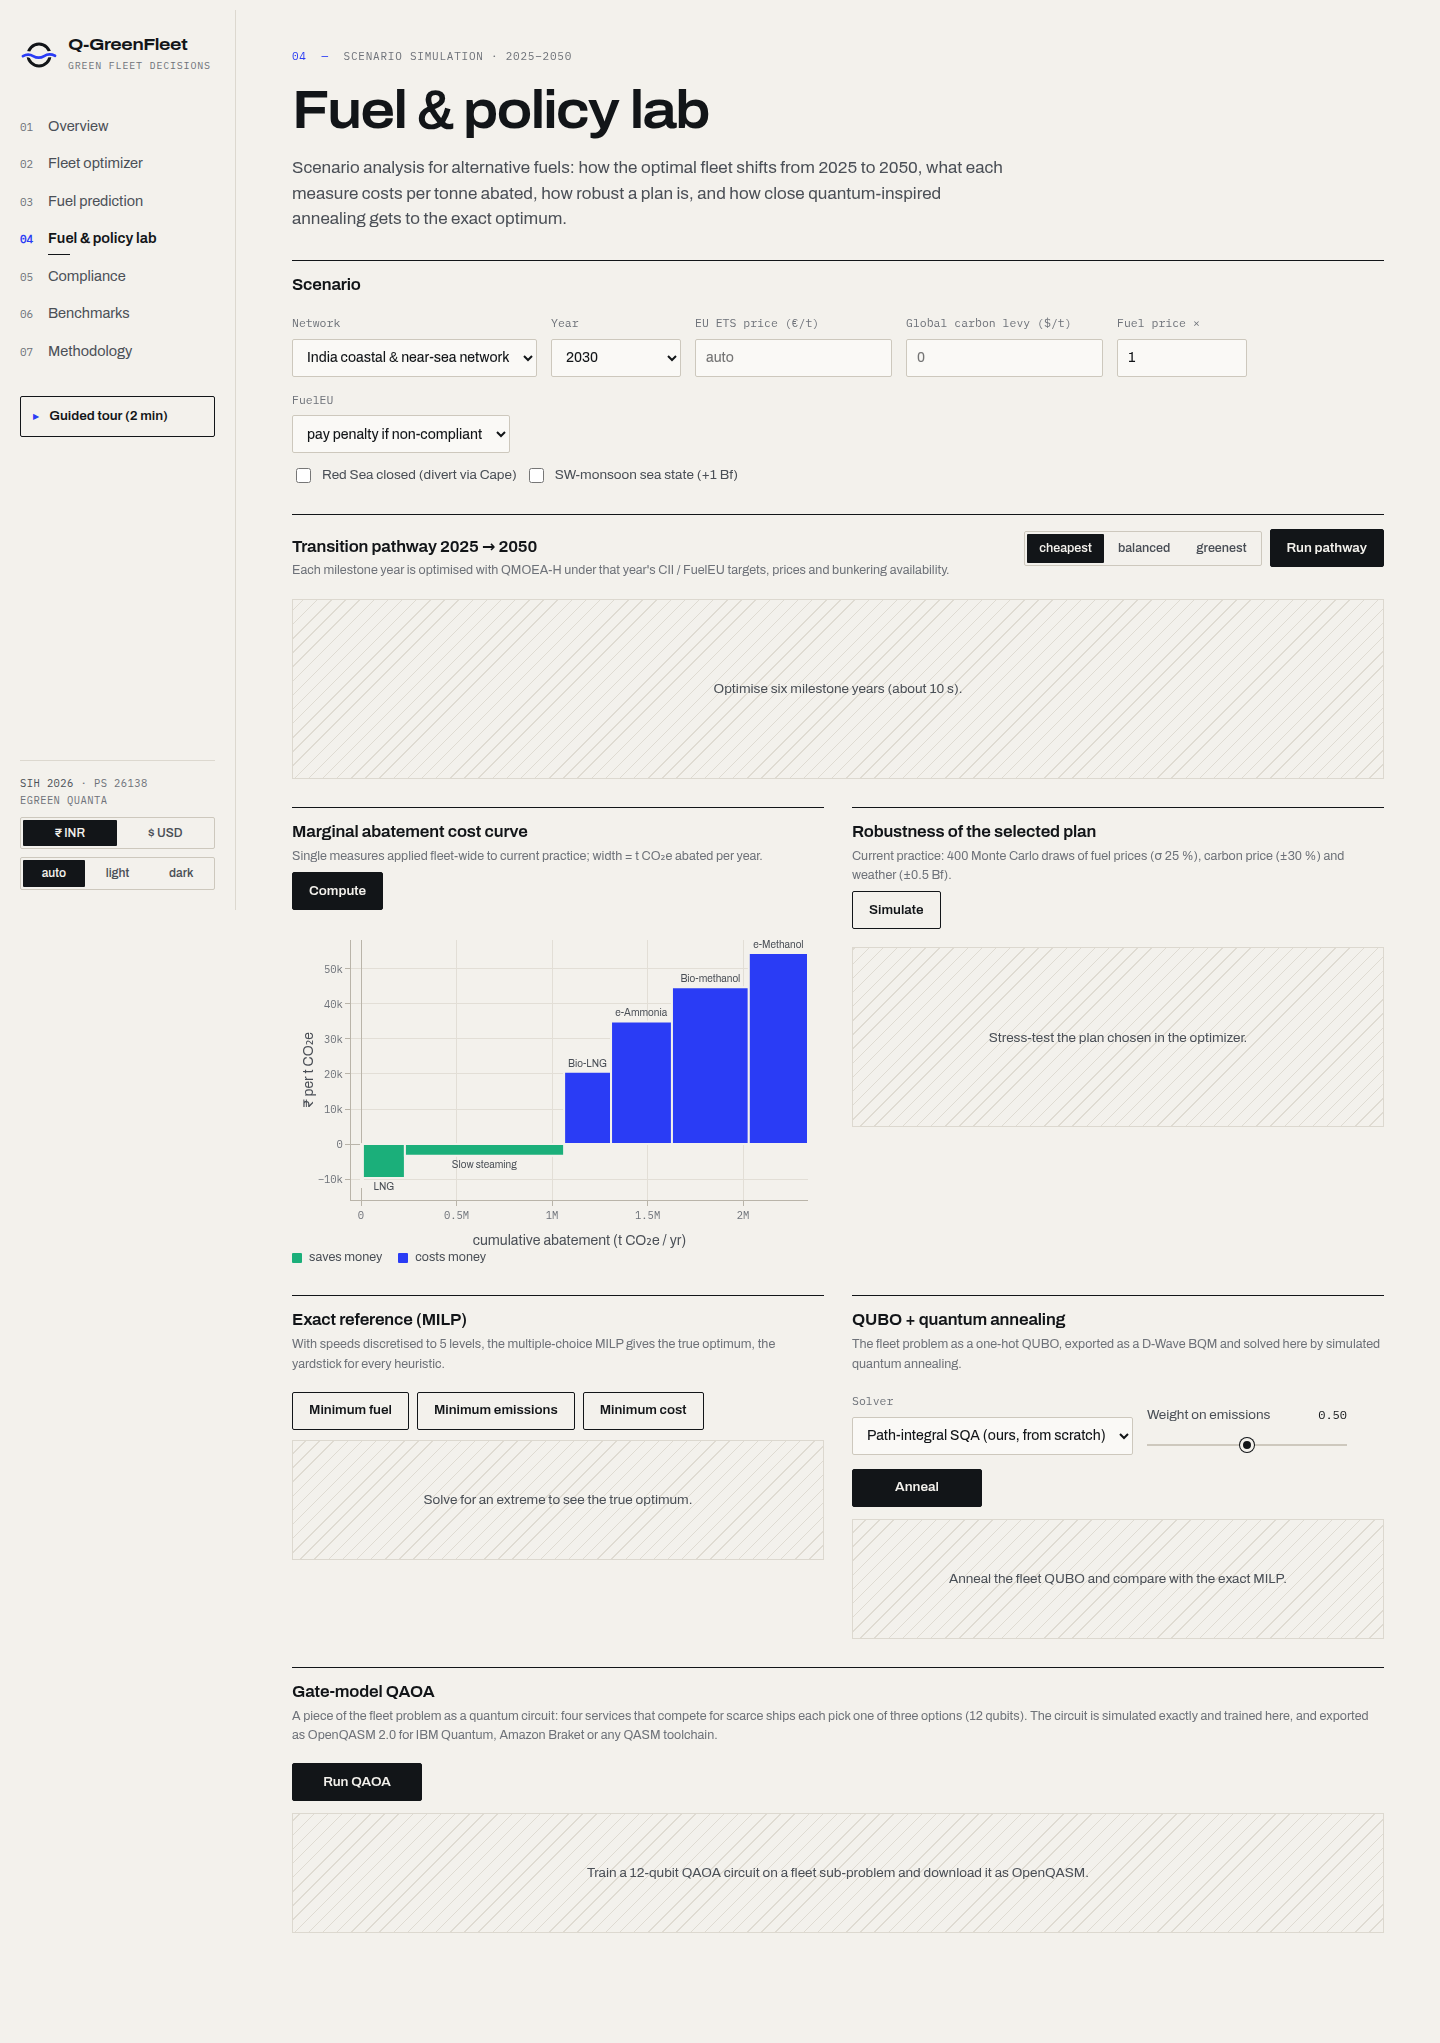
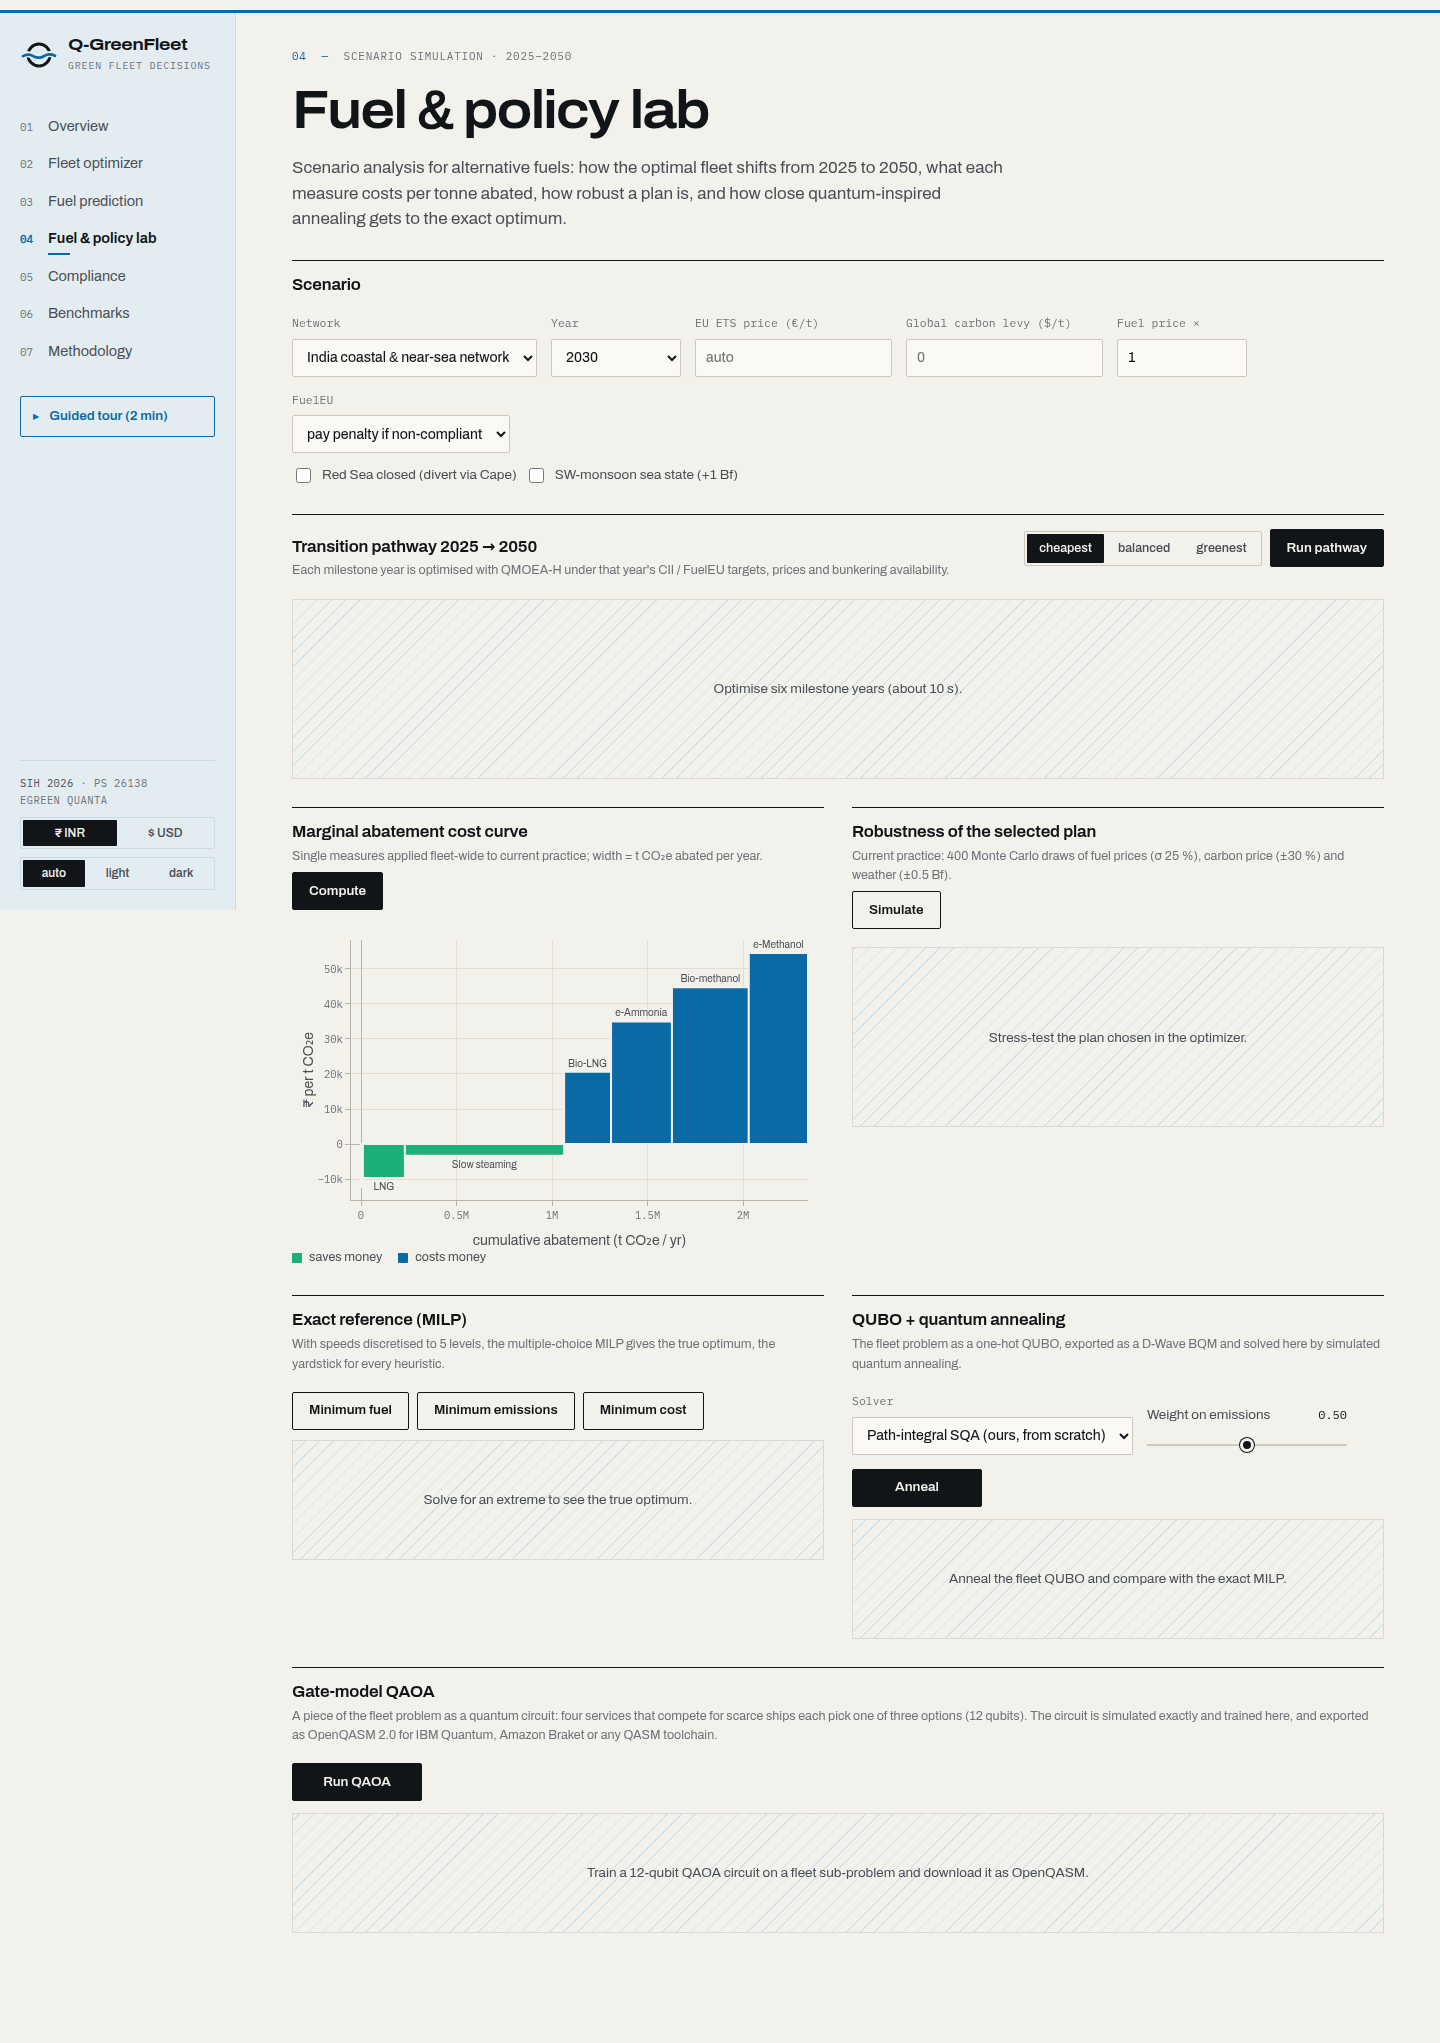
Light theme: a touch of ocean blue
- Accent changes from ultramarine to a deep ocean blue (#0a6aa6, 5.1:1 on
  the paper): links, section numbers, active-page marker, logo wave,
  first chart series and the fuel colour scale.
- Pale-sea sidebar, the same family as the map's water, with an
  ocean-blue guided-tour button.
- Thin ocean-blue rule across the top of the window and on the headline
  figure; bluer sea on the map; empty-state hatching in pale ocean.
- Chart palette and sequential ramp re-validated on the paper surface.
- Dark theme unchanged. Favicon and decision report follow the new blue.

Claude-Session: https://claude.ai/code/session_01LireC5r7ebd4Q4MviXgWuL

Changed region(s): [[0.375, 0.4626, 0.5625, 0.5859], [0.0312, 0.185, 0.0938, 0.2159]]

diff --git a/frontend/src/styles.css b/frontend/src/styles.css
@@ -1,5 +1,6 @@
 /* Q-GreenFleet design system, "Chart Room".
-   Editorial and instrument-like: warm chart paper, black ink, one ultramarine accent. Sections are separated by ruled
+   Editorial and instrument-like: warm chart paper, black ink, one ocean-blue accent (light) / periwinkle (dark);
+   in the light theme the sidebar is pale sea, like the water on a chart. Sections are separated by ruled
    lines instead of boxes; Archivo (expanded for headlines, condensed for figures) with IBM Plex Mono for labels.
    The map uses nautical-chart colours (buff land, pale sea). Chart series = validated reference palette with
    slot 1 set to the accent, re-validated against #f3f1ec (light) and #101214 (dark). */
@@ -27,20 +28,25 @@
   --border: #dcd8cf;
   --grid: #e2ded6;
   --axis: #b9b4a9;
-  --hatch: #dfdbd2;
-  --accent: #2a3cf5;
-  --accent-hover: #1a2ad6;
-  --accent-soft: rgba(42, 60, 245, 0.08);
+  --hatch: #d3e3ea;
+  --accent: #0a6aa6;
+  --accent-hover: #08578a;
+  --accent-soft: rgba(10, 106, 166, 0.08);
   --accent-ink: #ffffff;
-  --accent-inv: #9aa3ff; /* accent on an ink background */
+  --accent-inv: #7cc4ec; /* accent on an ink background */
   --brand-wave: var(--accent);
-  --sea: #dbe5e8;
+  --strip: var(--accent); /* ocean-blue rule across the top of the window (light theme only) */
+  --hero-rule: var(--accent);
+  --sidebar-bg: #e3edf1; /* pale sea, the same family as the map's water */
+  --sidebar-line: #c9dbe3;
+  --tour-ink: var(--accent);
+  --sea: #d0e3eb;
   --land: #ece4cf;
   --coast: #9f9886;
-  --series-1: #2a3cf5; --series-2: #eb6834; --series-3: #1baf7a; --series-4: #eda100;
+  --series-1: #0a6aa6; --series-2: #eb6834; --series-3: #1baf7a; --series-4: #eda100;
   --series-5: #e87ba4; --series-6: #008300; --series-7: #4a3aa7; --series-8: #e34948;
   --neutral-series: #8f8d86;
-  --seq-100: #959ef9; --seq-300: #5f6cf6; --seq-500: #2a3cf5; --seq-700: #121a7a;
+  --seq-100: #78add2; --seq-300: #3a89bf; --seq-500: #0a6aa6; --seq-700: #07385a;
   --good: #0ca30c; --warning: #fab219; --serious: #ec835a; --critical: #d03b3b;
   --good-text: #17692d; --bad-text: #b3261e;
   --font: "QGF Amp", "Archivo Variable", "Archivo", system-ui, -apple-system, "Segoe UI", sans-serif;
@@ -53,6 +59,7 @@
     --text-primary: #ebe7df; --text-secondary: #aaa69d; --text-muted: #85827a;
     --ink: #ebe7df; --rule: #8d8a83; --line: #383c40; --border: #2a2e32; --grid: #1f2326; --axis: #3c4044; --hatch: #1d2023;
     --accent: #7c86ff; --accent-hover: #9aa2ff; --accent-soft: rgba(124, 134, 255, 0.12); --accent-ink: #0b0d10; --accent-inv: #2a3cf5;
+    --strip: transparent; --hero-rule: var(--ink); --sidebar-bg: var(--page); --sidebar-line: var(--border); --tour-ink: var(--ink);
     --sea: #0c1518; --land: #1c1f1d; --coast: #3e433f;
     --series-1: #6b78ff; --series-2: #d95926; --series-3: #199e70; --series-4: #c98500;
     --series-5: #d55181; --series-6: #008300; --series-7: #9085e9; --series-8: #e66767;
@@ -67,6 +74,7 @@
   --text-primary: #ebe7df; --text-secondary: #aaa69d; --text-muted: #85827a;
   --ink: #ebe7df; --rule: #8d8a83; --line: #383c40; --border: #2a2e32; --grid: #1f2326; --axis: #3c4044; --hatch: #1d2023;
   --accent: #7c86ff; --accent-hover: #9aa2ff; --accent-soft: rgba(124, 134, 255, 0.12); --accent-ink: #0b0d10; --accent-inv: #2a3cf5;
+    --strip: transparent; --hero-rule: var(--ink); --sidebar-bg: var(--page); --sidebar-line: var(--border); --tour-ink: var(--ink);
   --sea: #0c1518; --land: #1c1f1d; --coast: #3e433f;
   --series-1: #6b78ff; --series-2: #d95926; --series-3: #199e70; --series-4: #c98500;
   --series-5: #d55181; --series-6: #008300; --series-7: #9085e9; --series-8: #e66767;
@@ -82,6 +90,7 @@ body {
   -webkit-font-smoothing: antialiased; text-rendering: optimizeLegibility; font-feature-settings: "ss01" 0;
 }
 ::selection { background: var(--accent); color: var(--accent-ink); }
+body::before { content: ""; position: fixed; inset: 0 0 auto; height: 3px; background: var(--strip); z-index: 1500; pointer-events: none; }
 a { color: var(--accent); text-underline-offset: 3px; text-decoration-thickness: 1px; }
 :focus-visible { outline: 2px solid var(--accent); outline-offset: 2px; }
 h1 {
@@ -104,8 +113,9 @@ p { margin: 0 0 8px; }
 .app { display: grid; grid-template-columns: 236px minmax(0, 1fr); min-height: 100%; }
 .sidebar {
   position: sticky; top: 0; height: 100vh; display: flex; flex-direction: column; gap: 4px; padding: 26px 20px 20px;
-  border-right: 1px solid var(--border); background: var(--page);
+  border-right: 1px solid var(--sidebar-line); background: var(--sidebar-bg);
 }
+.sidebar .segmented { border-color: var(--sidebar-line); }
 .brand { display: flex; gap: 10px; align-items: center; color: var(--ink); padding-bottom: 30px; }
 .brand-name { font-weight: 680; font-stretch: 116%; font-size: 16.5px; line-height: 1.1; letter-spacing: -0.025em; }
 .brand-sub { font-family: var(--font-mono); font-size: 10px; letter-spacing: 0.08em; text-transform: uppercase; color: var(--text-muted); margin-top: 4px; }
@@ -121,15 +131,16 @@ p { margin: 0 0 8px; }
 .nav a:hover { color: var(--ink); }
 .nav a.active { color: var(--ink); font-weight: 620; }
 .nav a.active::before { color: var(--accent); }
-.nav a.active::after { content: ""; position: absolute; left: 28px; bottom: 2px; width: 22px; height: 1px; background: var(--ink); }
+.nav a.active::after { content: ""; position: absolute; left: 28px; bottom: 2px; width: 22px; height: 2px; background: var(--accent); }
 .tour-link {
   margin: 22px 0 0; display: flex; align-items: center; gap: 10px; width: 100%; padding: 9px 12px; cursor: pointer;
-  font: inherit; font-size: 13.5px; font-weight: 600; color: var(--ink); background: transparent;
-  border: 1px solid var(--ink); border-radius: 2px; transition: background 0.12s ease, color 0.12s ease;
+  font: inherit; font-size: 13.5px; font-weight: 600; color: var(--tour-ink); background: transparent;
+  border: 1px solid var(--tour-ink); border-radius: 2px; transition: background 0.12s ease, color 0.12s ease;
 }
 .tour-link::before { content: "▶"; font-size: 8px; color: var(--accent); }
-.tour-link:hover { background: var(--ink); color: var(--page); }
-.sidebar-foot { margin-top: auto; padding-top: 14px; border-top: 1px solid var(--border); display: grid; gap: 8px; }
+.tour-link:hover { background: var(--tour-ink); color: var(--page); }
+.tour-link:hover::before { color: inherit; }
+.sidebar-foot { margin-top: auto; padding-top: 14px; border-top: 1px solid var(--sidebar-line); display: grid; gap: 8px; }
 .foot-credit { font-family: var(--font-mono); font-size: 10.5px; line-height: 1.6; letter-spacing: 0.04em; color: var(--text-muted); text-transform: uppercase; }
 .foot-credit b { color: var(--text-secondary); font-weight: 400; }
 
@@ -166,7 +177,7 @@ p { margin: 0 0 8px; }
 .card-head > .muted.small, .card-head > span.small { font-family: var(--font-mono); font-size: 11px; letter-spacing: 0.04em; }
 
 /* headline figure */
-.hero-card { display: flex; flex-direction: column; justify-content: flex-end; gap: 10px; border-top-width: 2px; padding-top: 16px; }
+.hero-card { display: flex; flex-direction: column; justify-content: flex-end; gap: 10px; border-top: 3px solid var(--hero-rule); padding-top: 16px; }
 .hero {
   display: block; font-weight: 700; font-stretch: 66%; font-size: clamp(84px, 9vw, 140px); line-height: 0.86;
   letter-spacing: -0.02em; font-variant-numeric: lining-nums tabular-nums; color: var(--ink); margin: 14px 0 6px;
@@ -322,7 +333,7 @@ tr.hl td:first-child { box-shadow: inset 2px 0 0 var(--accent); padding-left: 10
 }
 @media (max-width: 820px) {
   .app { grid-template-columns: minmax(0, 1fr); }
-  .sidebar { min-width: 0; position: static; height: auto; padding: 16px 16px 12px; border-right: 0; border-bottom: 1px solid var(--rule); gap: 0; }
+  .sidebar { min-width: 0; position: static; height: auto; padding: 16px 16px 12px; border-right: 0; border-bottom: 1px solid var(--sidebar-line); gap: 0; }
   .brand { padding-bottom: 12px; }
   .brand-sub { display: none; }
   .nav { flex-direction: row; overflow-x: auto; gap: 18px; scrollbar-width: none; margin: 0 -16px; padding: 0 16px; }

diff --git a/backend/greenfleet/api/report.py b/backend/greenfleet/api/report.py
@@ -83,7 +83,7 @@ def render(plan: dict, scenario: dict, explanation: dict | None = None, macc: di
     families = {r["fuel"]: r["fuel_family"] for r in plan["routes"]}
     route_items = sorted(((f"{r['route_id']} {r['name'][:26]}", r["wtw_co2e_t"], FUEL_COLORS.get(r["fuel_family"], "#9ca3af"))
                           for r in plan["routes"]), key=lambda t: -t[1])
-    cost_items = sorted(((f"{r['route_id']} {r['name'][:26]}", money.big_value(sum(r["cost_usd"].values()) / 1e6), "#2a3cf5")
+    cost_items = sorted(((f"{r['route_id']} {r['name'][:26]}", money.big_value(sum(r["cost_usd"].values()) / 1e6), "#0a6aa6")
                          for r in plan["routes"]), key=lambda t: -t[1])
     fe = plan["fleet"]["fueleu"]
     rows = "".join(
@@ -139,7 +139,7 @@ th {{ font: 10.5px 'IBM Plex Mono', ui-monospace, monospace; color: #6e7279; bor
 .legend span {{ display: inline-block; margin-right: 12px; font-size: 11px; }} .legend i {{ display: inline-block; width: 10px; height: 10px; border-radius: 1px; margin-right: 4px; vertical-align: -1px; }}
 @media print {{ main {{ padding: 0; }} h2 {{ break-after: avoid; }} table {{ break-inside: auto; }} tr {{ break-inside: avoid; }} }}
 </style></head><body><main>
-<div class="brand"><svg viewBox="0 0 64 64" width="34" height="34" aria-hidden="true"><mask id="wl"><rect width="64" height="64" fill="#fff"/><path d="M0 34 C8 29 14 29 21 33.5 S33 38 40 33.5 S54 29 64 34" stroke="#000" stroke-width="10.5" fill="none"/></mask><circle cx="32" cy="32" r="18.5" fill="none" stroke="#121518" stroke-width="5.2" mask="url(#wl)"/><path d="M5 34 C11.5 30.1 16 30.1 22.2 33.8 S34.4 37.6 40.6 33.8 S52 30.1 59 33.3" stroke="#2a3cf5" stroke-width="4.6" stroke-linecap="round" fill="none"/></svg><div><div class="bn">Q-GreenFleet</div><div class="bs">Decision report</div></div></div>
+<div class="brand"><svg viewBox="0 0 64 64" width="34" height="34" aria-hidden="true"><mask id="wl"><rect width="64" height="64" fill="#fff"/><path d="M0 34 C8 29 14 29 21 33.5 S33 38 40 33.5 S54 29 64 34" stroke="#000" stroke-width="10.5" fill="none"/></mask><circle cx="32" cy="32" r="18.5" fill="none" stroke="#121518" stroke-width="5.2" mask="url(#wl)"/><path d="M5 34 C11.5 30.1 16 30.1 22.2 33.8 S34.4 37.6 40.6 33.8 S52 30.1 59 33.3" stroke="#0a6aa6" stroke-width="4.6" stroke-linecap="round" fill="none"/></svg><div><div class="bn">Q-GreenFleet</div><div class="bs">Decision report</div></div></div>
 <h1>Green fleet deployment plan</h1>
 <div class="muted">{_e(network_name)} · year {scenario.get('year')} · generated {now} by Q-GreenFleet{(' · optimiser: ' + _e(algorithm)) if algorithm else ''}</div>
 <div class="kpis">
